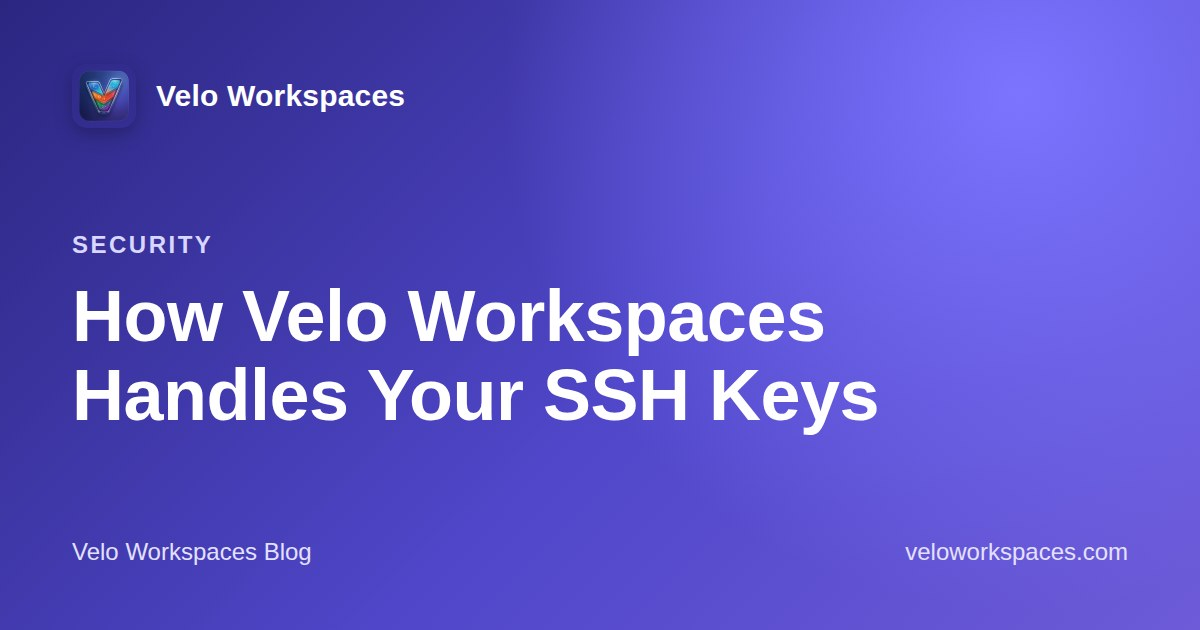
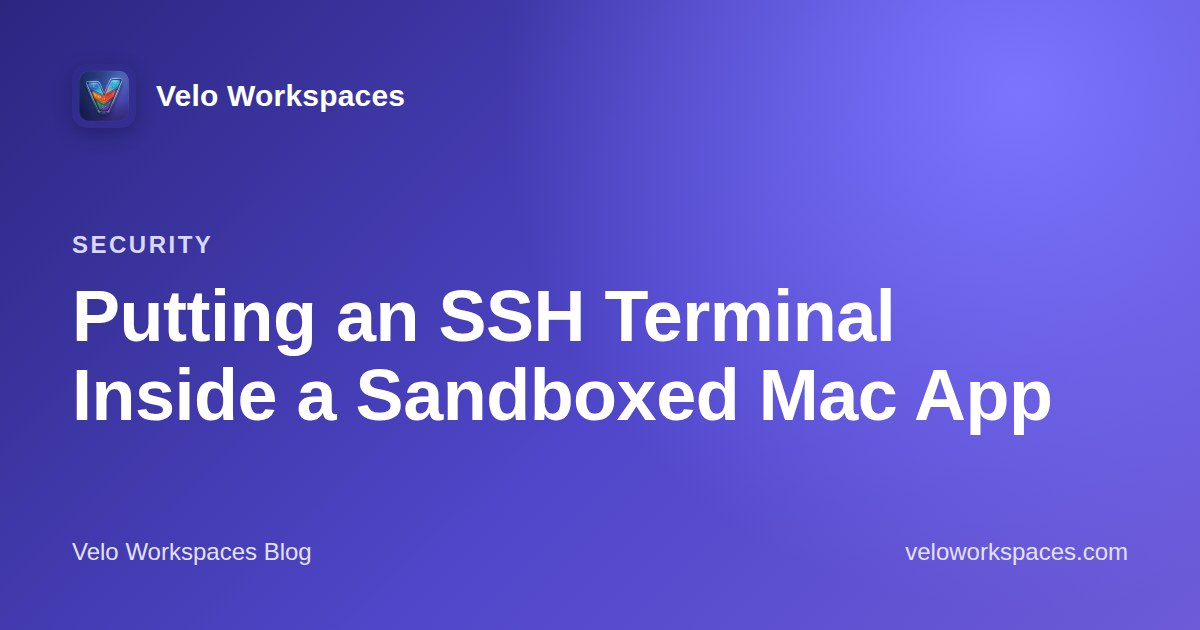
Retitle the SSH post: Putting an SSH Terminal Inside a Sandboxed Mac App
The old title read like product documentation. The new one says what a
developer gets from the post. The URL stays the same, so existing links
keep working. The lede now names Velo Workspaces, since the title no
longer does. The description and blog index card are updated to match,
and so are the share image and the link from the SSH and VS Code post.

Claude-Session: https://claude.ai/code/session_0135t8eiiL2RpLgHsYnL84Rv

Changed region(s): [[0.0617, 0.4524, 0.8942, 0.6937]]

diff --git a/blog/how-velo-workspaces-handles-ssh-keys/index.html b/blog/how-velo-workspaces-handles-ssh-keys/index.html
@@ -3,21 +3,21 @@
 <head>
 <meta charset="utf-8">
 <meta name="viewport" content="width=device-width, initial-scale=1">
-<title>How Velo Workspaces Handles Your SSH Keys</title>
-<meta name="description" content="Where Velo Workspaces keeps your SSH keys, how it verifies a VM&#x27;s host key, and how its terminal works inside the App Sandbox with SwiftNIO SSH.">
+<title>Putting an SSH Terminal Inside a Sandboxed Mac App</title>
+<meta name="description" content="How Velo Workspaces runs an SSH terminal inside the App Sandbox with SwiftNIO SSH, keeps your Ed25519 key in the Keychain, and checks each VM&#x27;s host key.">
 <link rel="canonical" href="https://www.veloworkspaces.com/blog/how-velo-workspaces-handles-ssh-keys/">
 <link rel="icon" type="image/png" href="/assets/icon.png">
 <link rel="stylesheet" href="/assets/style.css?v=6">
 <link rel="alternate" type="application/rss+xml" title="Velo Workspaces Blog" href="https://www.veloworkspaces.com/blog/feed.xml">
 <meta property="og:type" content="article">
 <meta property="og:site_name" content="Velo Workspaces">
-<meta property="og:title" content="How Velo Workspaces Handles Your SSH Keys">
-<meta property="og:description" content="Where Velo Workspaces keeps your SSH keys, how it verifies a VM&#x27;s host key, and how its terminal works inside the App Sandbox with SwiftNIO SSH.">
+<meta property="og:title" content="Putting an SSH Terminal Inside a Sandboxed Mac App">
+<meta property="og:description" content="How Velo Workspaces runs an SSH terminal inside the App Sandbox with SwiftNIO SSH, keeps your Ed25519 key in the Keychain, and checks each VM&#x27;s host key.">
 <meta property="og:url" content="https://www.veloworkspaces.com/blog/how-velo-workspaces-handles-ssh-keys/">
 <meta property="og:image" content="https://www.veloworkspaces.com/assets/og/how-velo-workspaces-handles-ssh-keys.jpg">
 <meta property="og:image:width" content="1200">
 <meta property="og:image:height" content="630">
-<meta property="og:image:alt" content="How Velo Workspaces Handles Your SSH Keys, Inside the Built-In Terminal">
+<meta property="og:image:alt" content="Putting an SSH Terminal Inside a Sandboxed Mac App">
 <meta name="twitter:card" content="summary_large_image">
 <meta property="article:published_time" content="2026-10-02">
 <meta property="article:modified_time" content="2026-10-02">
@@ -28,9 +28,9 @@
   "@graph": [
     {
       "@type": "BlogPosting",
-      "headline": "How Velo Workspaces Handles Your SSH Keys",
-      "name": "How Velo Workspaces Handles Your SSH Keys, Inside the Built-In Terminal",
-      "description": "Where Velo Workspaces keeps your SSH keys, how it verifies a VM's host key, and how its terminal works inside the App Sandbox with SwiftNIO SSH.",
+      "headline": "Putting an SSH Terminal Inside a Sandboxed Mac App",
+      "name": "Putting an SSH Terminal Inside a Sandboxed Mac App",
+      "description": "How Velo Workspaces runs an SSH terminal inside the App Sandbox with SwiftNIO SSH, keeps your Ed25519 key in the Keychain, and checks each VM's host key.",
       "image": "https://www.veloworkspaces.com/assets/og/how-velo-workspaces-handles-ssh-keys.jpg",
       "datePublished": "2026-10-02",
       "dateModified": "2026-10-02",
@@ -72,7 +72,7 @@
         {
           "@type": "ListItem",
           "position": 3,
-          "name": "How Velo Workspaces Handles Your SSH Keys, Inside the Built-In Terminal",
+          "name": "Putting an SSH Terminal Inside a Sandboxed Mac App",
           "item": "https://www.veloworkspaces.com/blog/how-velo-workspaces-handles-ssh-keys/"
         }
       ]
@@ -110,8 +110,8 @@
       <a class="article-back-link" href="/blog/">← Back to Blog</a>
       <div class="article-header">
         <span class="eyebrow">Security</span>
-        <h1>How Velo Workspaces Handles Your SSH Keys, Inside the Built-In Terminal</h1>
-        <p class="article-lede">Open Terminal signs you in to a Linux workspace with one click. Here's what happens to your keys when it does: where they're kept, how the workspace's identity is checked, and how an SSH client fits inside a sandboxed Mac app.</p>
+        <h1>Putting an SSH Terminal Inside a Sandboxed Mac App</h1>
+        <p class="article-lede">Open Terminal in Velo Workspaces signs you in to a Linux VM with one click. Here's how it's built: where your keys are kept, how the VM's identity is checked, and how an SSH client fits inside a sandboxed Mac app.</p>
         <p class="article-meta">By Gaoliang Luo · Published <time datetime="2026-10-02">October 2, 2026</time><span class="article-readtime">8 min read</span></p>
       </div>
       <details class="article-toc">

diff --git a/blog/index.html b/blog/index.html
@@ -454,7 +454,7 @@
     },
     {
       "@type": "BlogPosting",
-      "headline": "How Velo Workspaces Handles Your SSH Keys",
+      "headline": "Putting an SSH Terminal Inside a Sandboxed Mac App",
       "url": "https://www.veloworkspaces.com/blog/how-velo-workspaces-handles-ssh-keys/",
       "datePublished": "2026-10-02",
       "dateModified": "2026-10-02"
@@ -1148,8 +1148,8 @@
             <a class="blog-index-card" href="/blog/how-velo-workspaces-handles-ssh-keys/">
               <div>
                 <span class="eyebrow">Security</span>
-                <h3>How Velo Workspaces Handles Your SSH Keys</h3>
-                <p>Your private key stays in the Keychain, host keys are pinned, and the app never listens on a port. Plus how the terminal is built inside a sandboxed app.</p>
+                <h3>Putting an SSH Terminal Inside a Sandboxed Mac App</h3>
+                <p>Why /usr/bin/ssh doesn't work in the App Sandbox, and what does: SwiftNIO SSH, Ed25519 keys kept in the Keychain, pinned host keys, and an app that never listens on a port.</p>
               </div>
             </a>
           </div>

diff --git a/blog/ssh-vs-code-linux-vm-mac/index.html b/blog/ssh-vs-code-linux-vm-mac/index.html
@@ -277,7 +277,7 @@
 
       <h3>The workspace's host key has changed</h3>
 
-      <p>That's expected after you reinstall the guest or restore it from a restore point. The built-in terminal shows both keys and a <strong>Trust New Key</strong> button. For Terminal and VS Code, remove the old entry with <code>ssh-keygen -R 192.168.65.110</code>, using the workspace's address. If you did neither, don't trust the new key. <a href="/blog/how-velo-workspaces-handles-ssh-keys/">How Velo Workspaces handles your SSH keys</a> explains how host keys are checked.</p>
+      <p>That's expected after you reinstall the guest or restore it from a restore point. The built-in terminal shows both keys and a <strong>Trust New Key</strong> button. For Terminal and VS Code, remove the old entry with <code>ssh-keygen -R 192.168.65.110</code>, using the workspace's address. If you did neither, don't trust the new key. <a href="/blog/how-velo-workspaces-handles-ssh-keys/">Putting an SSH terminal inside a sandboxed Mac app</a> explains how the built-in terminal checks host keys.</p>
 
       <h3>SSH ready never appears</h3>
 

diff --git a/i18n/blog_posts.py b/i18n/blog_posts.py
@@ -933,12 +933,12 @@ POSTS = [
         "slug": "how-velo-workspaces-handles-ssh-keys",
         "group": "Security",
         "eyebrow": "Security",
-        "title": "How Velo Workspaces Handles Your SSH Keys",
-        "h1": "How Velo Workspaces Handles Your SSH Keys, Inside the Built-In Terminal",
-        "description": "Where Velo Workspaces keeps your SSH keys, how it verifies a VM's host key, and how its terminal works inside the App Sandbox with SwiftNIO SSH.",
-        "card_title": "How Velo Workspaces Handles Your SSH Keys",
-        "card_summary": "Your private key stays in the Keychain, host keys are pinned, and the app never listens on a port. Plus how the terminal is built inside a sandboxed app.",
-        "lede": "Open Terminal signs you in to a Linux workspace with one click. Here's what happens to your keys when it does: where they're kept, how the workspace's identity is checked, and how an SSH client fits inside a sandboxed Mac app.",
+        "title": "Putting an SSH Terminal Inside a Sandboxed Mac App",
+        "h1": "Putting an SSH Terminal Inside a Sandboxed Mac App",
+        "description": "How Velo Workspaces runs an SSH terminal inside the App Sandbox with SwiftNIO SSH, keeps your Ed25519 key in the Keychain, and checks each VM's host key.",
+        "card_title": "Putting an SSH Terminal Inside a Sandboxed Mac App",
+        "card_summary": "Why /usr/bin/ssh doesn't work in the App Sandbox, and what does: SwiftNIO SSH, Ed25519 keys kept in the Keychain, pinned host keys, and an app that never listens on a port.",
+        "lede": "Open Terminal in Velo Workspaces signs you in to a Linux VM with one click. Here's how it's built: where your keys are kept, how the VM's identity is checked, and how an SSH client fits inside a sandboxed Mac app.",
         "published": "2026-10-02",
         "modified": "2026-10-02",
         "trademarks": "Ubuntu is a trademark of Canonical Ltd."
